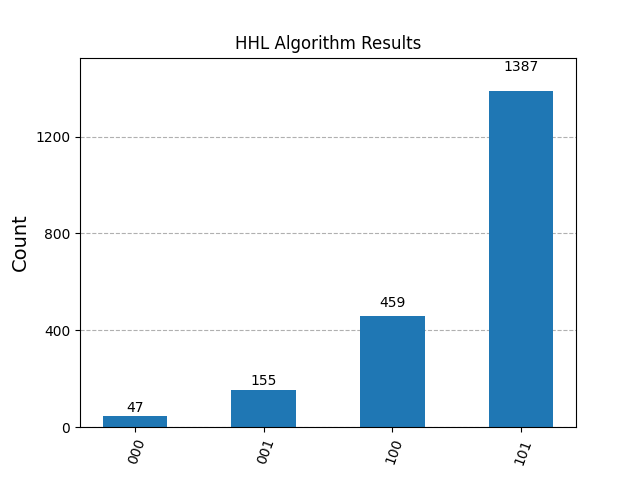
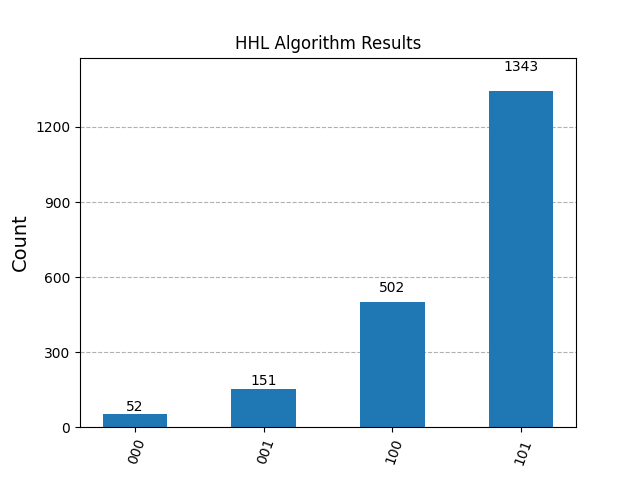
h init for b

diff --git a/hhl_algorithm_1bit.py b/hhl_algorithm_1bit.py
@@ -83,7 +83,7 @@ class HHLAlgorithm:
         if self.num_system_qubits == 1:
             qc_b = QuantumCircuit(1)
             theta = 2 * np.arccos(self.vector_b[0])
-            qc_b.ry(theta, 0)
+            qc_b.h(0)
         else:
             qc_b = QuantumCircuit(self.num_system_qubits)
             qc_b.initialize(self.vector_b, list(range(self.num_system_qubits)))
@@ -156,7 +156,6 @@ class HHLAlgorithm:
             qc.h(self.time_qr[qubit])
 
         # Step 3: Phase estimation with Trotterized controlled-U operations.
-        
         power = 2 ** (self.num_time_qubits - 1)
         # Pass the entire system register as target.
         qc = self.apply_controlled_u_trotter(qc, self.A, self.time_qr[0], list(self.b_qr), power, steps=2)

diff --git a/hhl_algorithm.py b/hhl_algorithm.py
@@ -80,7 +80,7 @@ class HHLAlgorithm:
         if self.num_system_qubits == 1:
             qc_b = QuantumCircuit(1)
             theta = 2 * np.arccos(self.vector_b[0])
-            qc_b.ry(theta, 0)
+            qc_b.h(0)
         else:
             qc_b = QuantumCircuit(self.num_system_qubits)
             qc_b.initialize(self.vector_b, list(range(self.num_system_qubits)))
